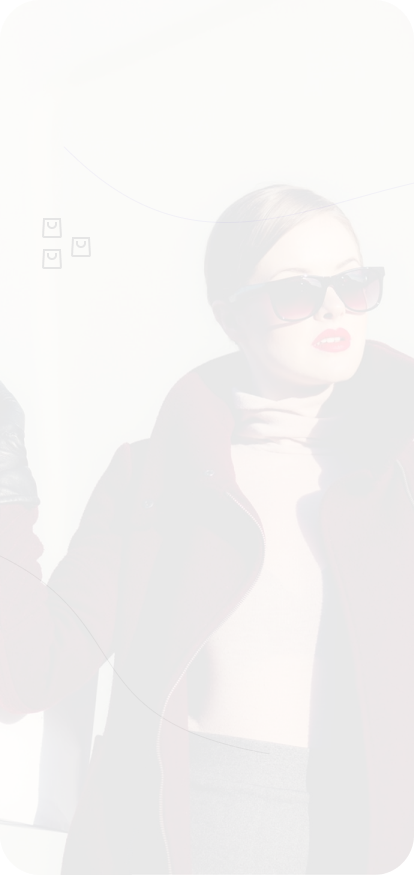
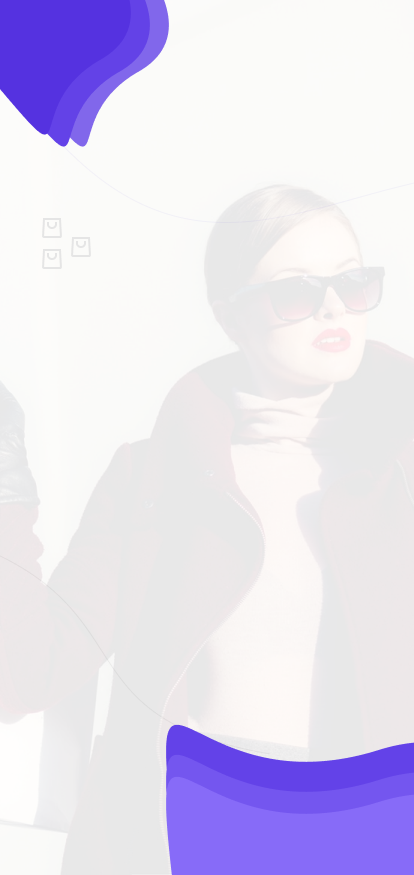
Banner2 terminado

Changed region(s): [[0.3768, 0.8023, 1.0, 1.0], [0.0, 0.0, 0.4058, 0.1851]]

diff --git a/components/bannerlogin/bannerLogin.js b/components/bannerlogin/bannerLogin.js
@@ -1,0 +1,35 @@
+export function banner2(){
+    let div = document.createElement('div');
+    div.className = "div-banner2";
+
+    let titulo = document.createElement('h1');
+    titulo.textContent = "Geeta.";
+    div.appendChild(titulo);
+
+    let subtitulo = document.createElement('h3');
+    subtitulo.textContent = "Create your fashion in your own way";
+    div.appendChild(subtitulo);
+
+    let descripcion = document.createElement('p');
+    descripcion.textContent = "Each men and women has their own style, Geeta help you to create your unique style.";
+    descripcion.className = "descrip";
+    div.appendChild(descripcion);
+
+    let logBoton = document.createElement('div');
+    logBoton.textContent = "LOG IN";
+    logBoton.className = "log-boton";
+    div.appendChild(logBoton);
+
+    let option = document.createElement('p');
+    option.textContent = "OR";
+    option.className = "option";
+    div.appendChild(option);
+
+    let registerBoton = document.createElement('div');
+    registerBoton.textContent = "REGISTER";
+    registerBoton.className = "reg-boton";
+    div.appendChild(registerBoton);
+
+
+    return div
+}

diff --git a/components/bannerlogin/bannerLogin.css b/components/bannerlogin/bannerLogin.css
@@ -1,0 +1,55 @@
+.div-banner2 {
+    width: 100%;
+    height: 100vh;
+    background-image: url('../../assets/background/banner2.png');
+    background-size: cover;
+    background-position: top;
+
+    display: grid;
+    grid-template-rows: repeat(1fr auto);
+    justify-items: center;
+    align-content: center;
+}
+.div-banner2 h1 {
+    margin-top: -150px;
+    font-size: 50px;
+    margin-bottom: 200px;
+}
+.div-banner2 h3 {
+    width: 200px;
+    margin-top: -120px;
+    font-size: 20px;
+    text-align: center;
+}
+.div-banner2 p {
+    font-size: 15px;
+    font-weight: 500;
+    margin-top: -30px;
+}
+.descrip {
+    width: 350px;
+    display: flex;
+    text-align: center;
+    margin-bottom: 15px;
+}
+.log-boton, .reg-boton {
+    height: 3rem;
+    border: 3px solid black;
+    padding: 2rem 4rem;
+    border-radius: 35px;
+    font-size: 2rem;
+
+    display: flex;
+    align-items: center;
+    justify-content: center;
+    margin-top: 20px;
+}
+.reg-boton {
+    background-color: #6342E8;
+    color: white;
+    border: 3px solid #6342E8;
+}
+.option {
+    padding: 50px 0 0;
+    align-items: center;
+}

diff --git a/components/banner/banner.css b/components/banner/banner.css
@@ -1,0 +1,42 @@
+.div-banner {
+    width: 100%;
+    height: 100vh;
+    background-image: url('../../assets/background/banner1.png');
+    background-size: cover;
+    background-position: top;
+
+    display: grid;
+    grid-template-rows: 1fr auto auto;
+    justify-content: center;
+    padding: 5rem;
+}
+
+.div-banner span {
+    grid-row: 2/3;
+
+    color: white;
+    font-size: 8rem;
+    font-weight: 900;
+
+}
+
+.div-banner .div-boton {
+    grid-row: 3/4;
+
+    height: 5rem;
+    color: white;
+    border: 3px solid white;
+    padding: 2rem 4rem;
+    border-radius: 35px;
+    font-size: 2rem;
+
+    display: flex;
+    align-items: center;
+    justify-content: center;
+}
+
+.div-banner a {
+    color: white;
+    text-decoration: none;
+    font-weight: 800;
+}

diff --git a/components/banner/banner.js b/components/banner/banner.js
@@ -1,0 +1,21 @@
+export function banner(){
+    let div = document.createElement('div');
+    div.className = "div-banner";
+
+    let span = document.createElement('span');
+    span.textContent = "Geeta.";
+    div.appendChild(span);
+
+    let divBoton = document.createElement('div');
+    divBoton.className = "div-boton";
+    
+    let aBoton = document.createElement('a');
+    aBoton.href = 'pages/login/login.html';
+    aBoton.textContent = "SHOP NOW";
+
+    divBoton.appendChild(aBoton);
+
+    div.appendChild(divBoton);
+
+    return div;
+}

diff --git a/pages/login/login.html b/pages/login/login.html
@@ -1,0 +1,15 @@
+<!DOCTYPE html>
+<html lang="es">
+<head>
+    <meta charset="UTF-8">
+    <meta name="viewport" content="width=device-width, initial-scale=1.0">
+    <title>Document</title>
+    <link rel="stylesheet" href="login.css">
+    <link rel="stylesheet" href="../../components/banner/banner.css">
+    <link rel="stylesheet" href="../../components/bannerlogin/bannerLogin.css">
+    <link rel="stylesheet" href="../../config.css">
+</head>
+<body>
+    <script src="login.js" type="module" ></script>
+</body>
+</html>

diff --git a/index.html b/index.html
@@ -1,0 +1,15 @@
+<!DOCTYPE html>
+<html lang="en">
+<head>
+    <meta charset="UTF-8">
+    <meta name="viewport" content="width=device-width, initial-scale=1.0">
+    <title>Document</title>
+
+    <link rel="stylesheet" href="components/banner/banner.css">
+    <link rel="stylesheet" href="config.css">
+
+</head>
+<body>
+    <script src="main.js" type="module"></script>
+</body>
+</html>

diff --git a/pages/login/login.js b/pages/login/login.js
@@ -1,0 +1,11 @@
+import {banner2} from "../../components/bannerlogin/bannerLogin.js"
+
+export function login(){
+    let login = document.createElement('div');
+    login.className = "login";
+
+    login.appendChild(banner2())
+    return login;
+}
+
+document.body.appendChild(login());

diff --git a/config.css b/config.css
@@ -1,0 +1,12 @@
+* {
+    margin: 0;
+    padding: 0;
+    box-sizing: border-box;
+}
+
+html {
+    max-width: 400px;
+    margin: auto;
+    font-size: 10px;
+    font-family: sans-serif;
+}

diff --git a/main.js b/main.js
@@ -1,0 +1,3 @@
+import {banner} from "./components/banner/banner.js";
+
+document.body.appendChild(banner());
